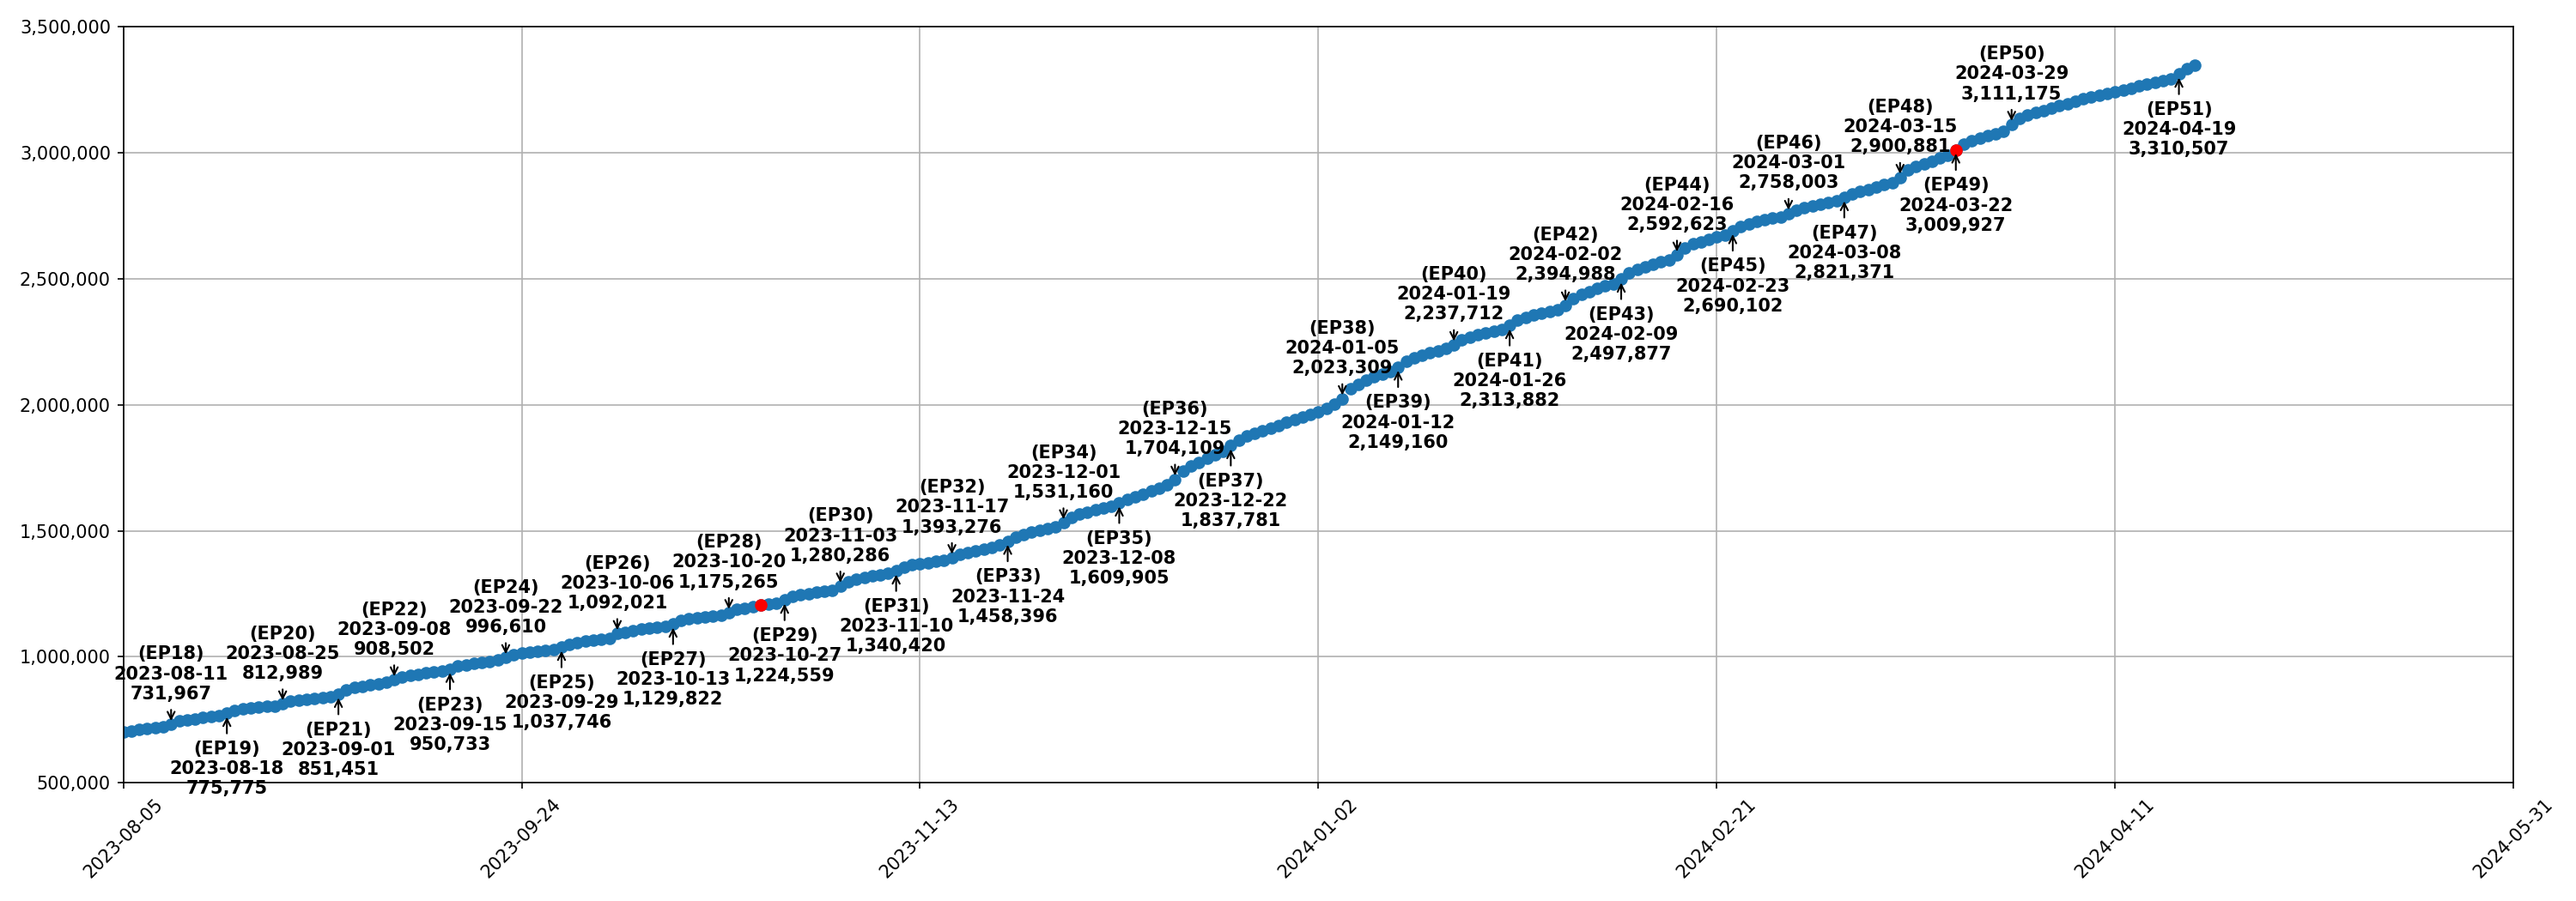
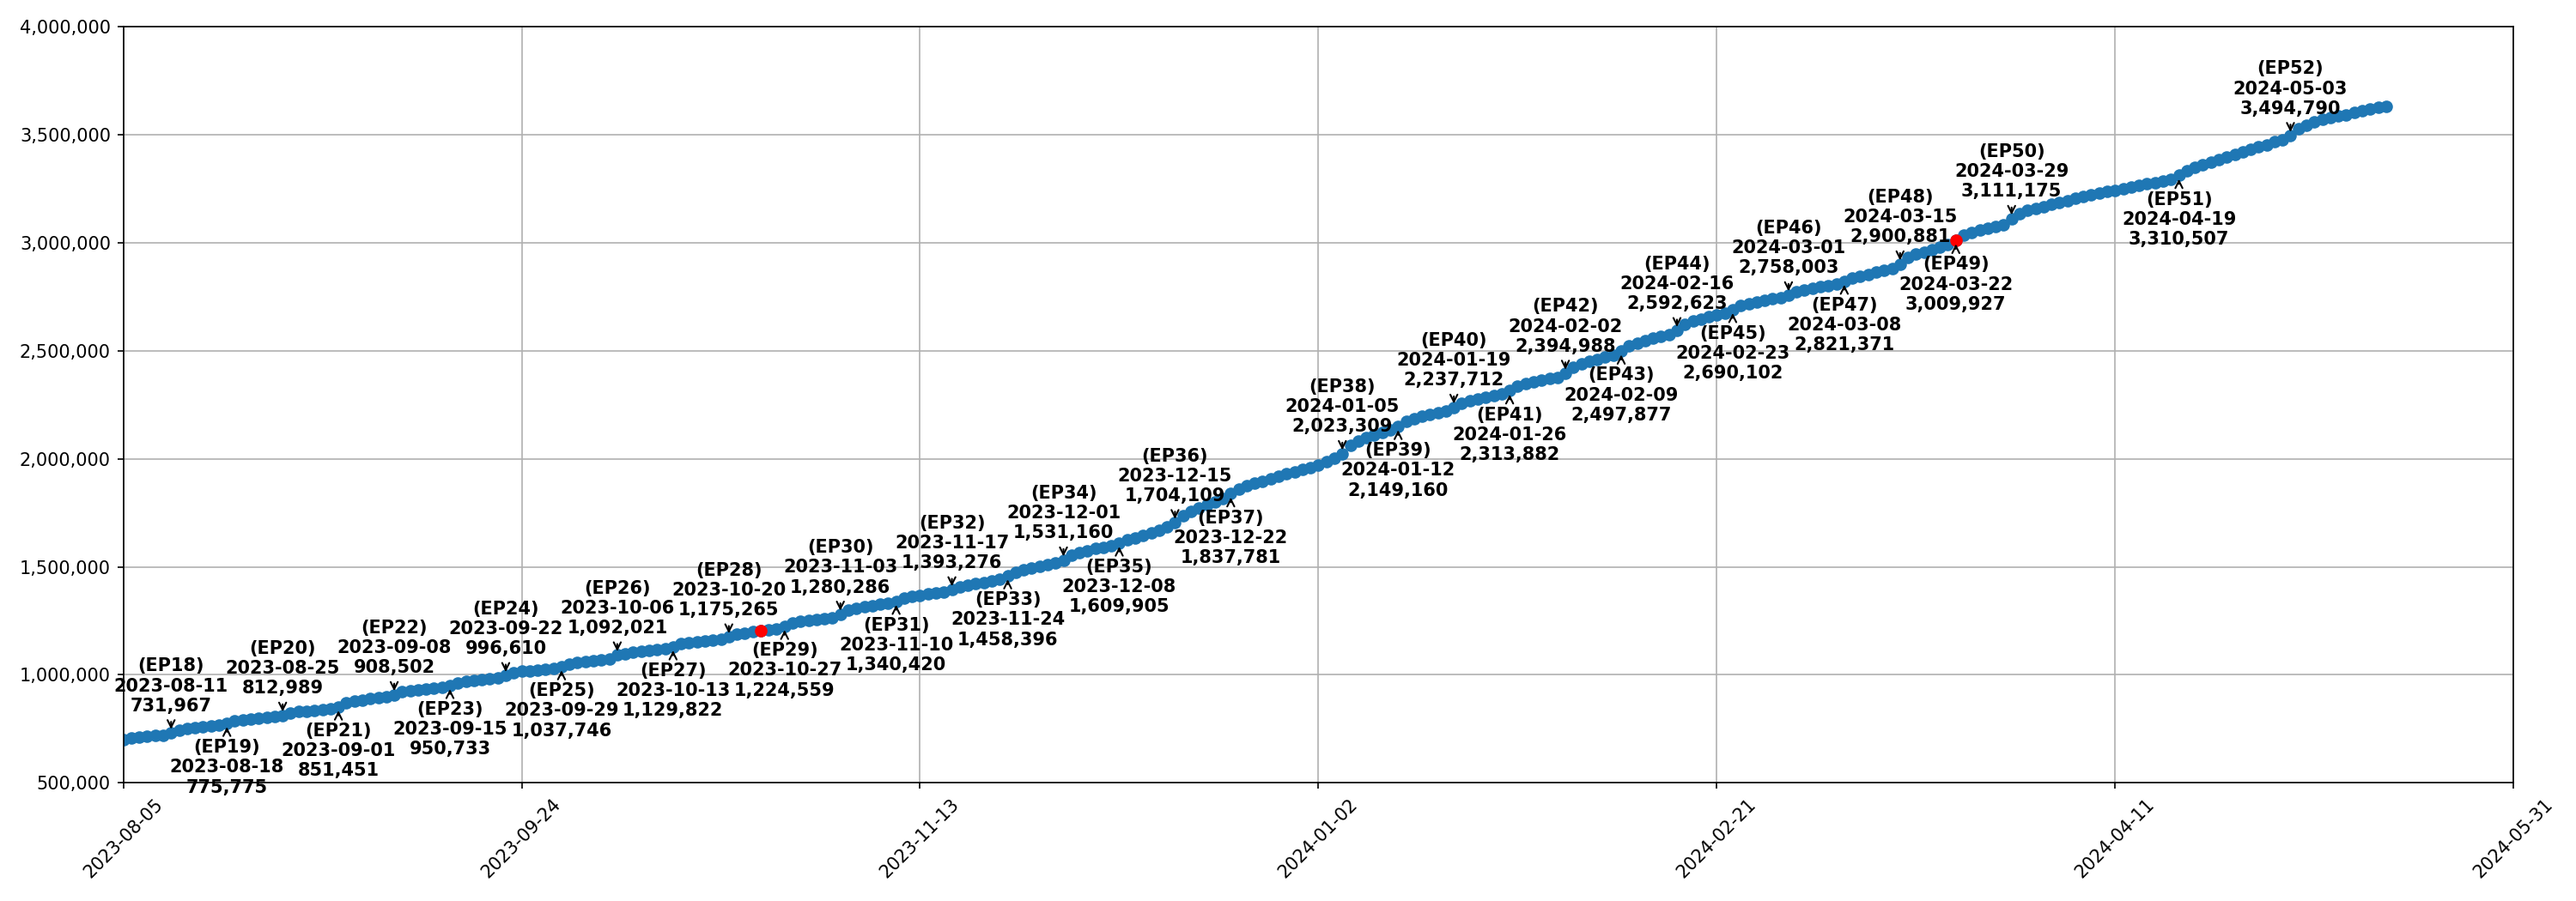
Update prediction

diff --git a/src/lib/prediction.py b/src/lib/prediction.py
@@ -30,7 +30,7 @@ prediction = line_fitter.predict([[goal]])
 
 plt.figure(figsize=(20, 7))
 # plt.ylim(600000, y[len(df) - 1] + 100000)  # y축 범위
-plt.ylim(600000, 3500000)  # y축 범위
+plt.ylim(600000, 4000000)  # y축 범위
 # plt.xlim(0, len(df))  # x축 범위
 # plt.xlim(0, prediction) # Prediction 작동시
 plt.xlim(0, 300)
@@ -84,6 +84,14 @@ for i in range(len(X)):
                 curr -= 2
                 if curr == 49 or curr == 50:
                     continue
+                if curr >= 52:
+                    curr -= 1
+                    if curr == 51:
+                        continue
+                    if curr >= 53:
+                        curr -= 1
+                        if curr == 52:
+                            continue
         plt.annotate(
             "(EP"
             + str(curr)
